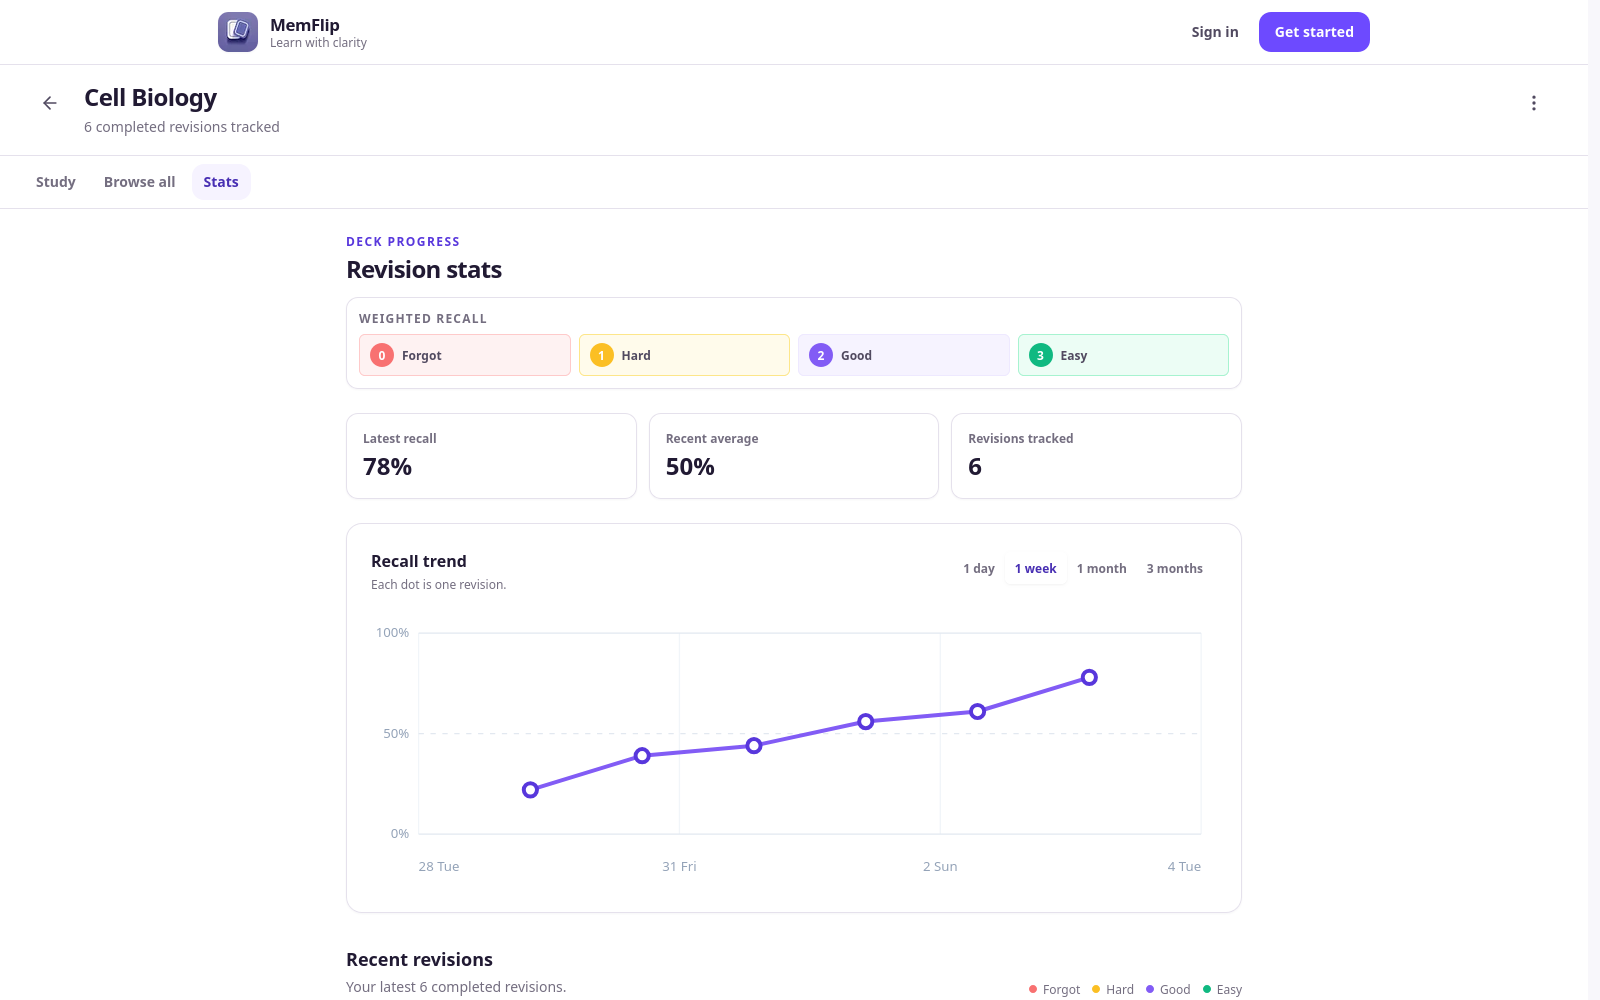
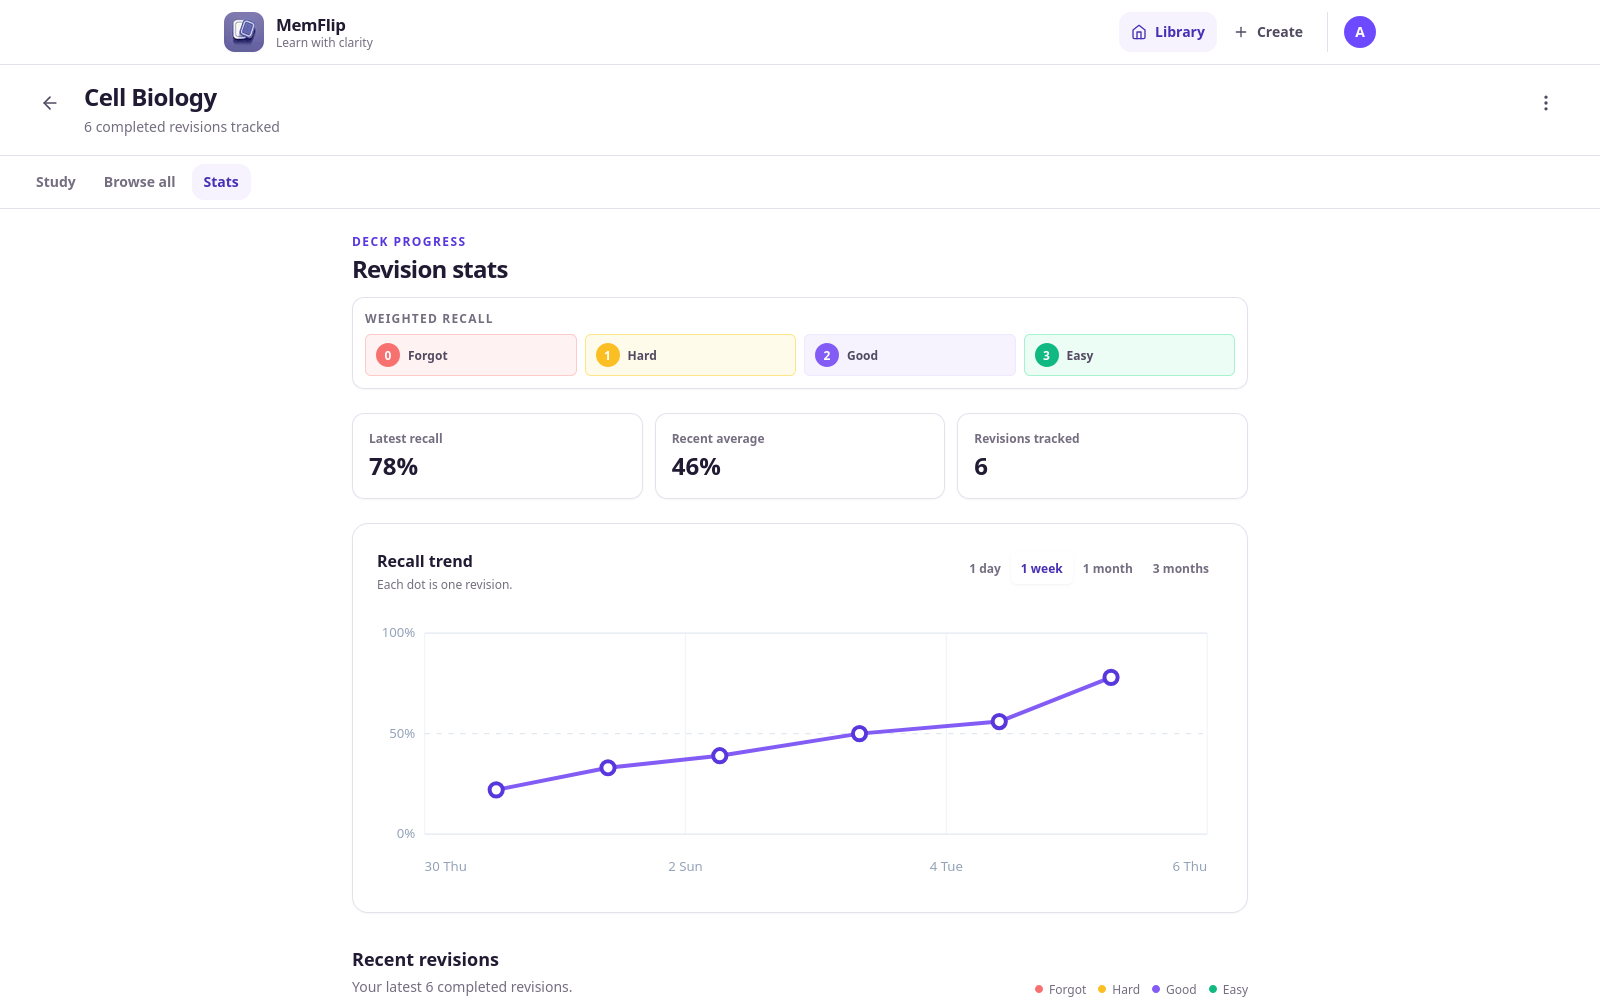
Fix authenticated navbar screenshots

diff --git a/app/components/Header.tsx b/app/components/Header.tsx
@@ -15,6 +15,10 @@ const signedInLinks = [
 export default function Header() {
   const pathname = usePathname();
   const [mobileOpen, setMobileOpen] = useState(false);
+  const isNoAuthPage =
+    pathname === "/" ||
+    pathname.startsWith("/sign-in") ||
+    pathname.startsWith("/sign-up");
 
   useEffect(() => {
     setMobileOpen(false);
@@ -29,6 +33,23 @@ export default function Header() {
         : "text-ink-700 hover:bg-surface-subtle hover:text-ink-900"
     }`;
   };
+
+  const mobileMenuButton = (
+    <button
+      type="button"
+      className="icon-button"
+      aria-expanded={mobileOpen}
+      aria-controls="mobile-navigation"
+      aria-label={mobileOpen ? "Close navigation" : "Open navigation"}
+      onClick={() => setMobileOpen((open) => !open)}
+    >
+      {mobileOpen ? (
+        <FiX className="size-5" aria-hidden="true" />
+      ) : (
+        <FiMenu className="size-5" aria-hidden="true" />
+      )}
+    </button>
+  );
 
   return (
     <header className="sticky top-0 z-40 border-b border-[var(--border)] bg-white/95 backdrop-blur-md">
@@ -85,18 +106,22 @@ export default function Header() {
             </div>
           </SignedIn>
           <SignedOut>
-            <Link
-              href="/sign-in"
-              className="inline-flex min-h-10 items-center rounded-control px-3 text-sm font-semibold text-ink-700 hover:bg-surface-subtle"
-            >
-              Sign in
-            </Link>
-            <Link
-              href="/sign-up"
-              className="inline-flex min-h-10 items-center rounded-control bg-brand-600 px-4 text-sm font-semibold text-white transition-colors hover:bg-brand-700"
-            >
-              Get started
-            </Link>
+            {isNoAuthPage && (
+              <>
+                <Link
+                  href="/sign-in"
+                  className="inline-flex min-h-10 items-center rounded-control px-3 text-sm font-semibold text-ink-700 hover:bg-surface-subtle"
+                >
+                  Sign in
+                </Link>
+                <Link
+                  href="/sign-up"
+                  className="inline-flex min-h-10 items-center rounded-control bg-brand-600 px-4 text-sm font-semibold text-white transition-colors hover:bg-brand-700"
+                >
+                  Get started
+                </Link>
+              </>
+            )}
           </SignedOut>
         </div>
 
@@ -104,20 +129,11 @@ export default function Header() {
           <SignedIn>
             <UserButton afterSignOutUrl="/" />
           </SignedIn>
-          <button
-            type="button"
-            className="icon-button"
-            aria-expanded={mobileOpen}
-            aria-controls="mobile-navigation"
-            aria-label={mobileOpen ? "Close navigation" : "Open navigation"}
-            onClick={() => setMobileOpen((open) => !open)}
-          >
-            {mobileOpen ? (
-              <FiX className="size-5" aria-hidden="true" />
-            ) : (
-              <FiMenu className="size-5" aria-hidden="true" />
-            )}
-          </button>
+          {isNoAuthPage ? (
+            mobileMenuButton
+          ) : (
+            <SignedIn>{mobileMenuButton}</SignedIn>
+          )}
         </div>
       </div>
 
@@ -154,17 +170,19 @@ export default function Header() {
             </nav>
           </SignedIn>
           <SignedOut>
-            <nav className="grid gap-2" aria-label="Account navigation">
-              <Link href="/sign-in" className={linkClass("/sign-in")}>
-                Sign in
-              </Link>
-              <Link
-                href="/sign-up"
-                className="inline-flex min-h-11 items-center justify-center rounded-control bg-brand-600 px-4 text-sm font-semibold text-white"
-              >
-                Get started
-              </Link>
-            </nav>
+            {isNoAuthPage && (
+              <nav className="grid gap-2" aria-label="Account navigation">
+                <Link href="/sign-in" className={linkClass("/sign-in")}>
+                  Sign in
+                </Link>
+                <Link
+                  href="/sign-up"
+                  className="inline-flex min-h-11 items-center justify-center rounded-control bg-brand-600 px-4 text-sm font-semibold text-white"
+                >
+                  Get started
+                </Link>
+              </nav>
+            )}
           </SignedOut>
         </div>
       )}
